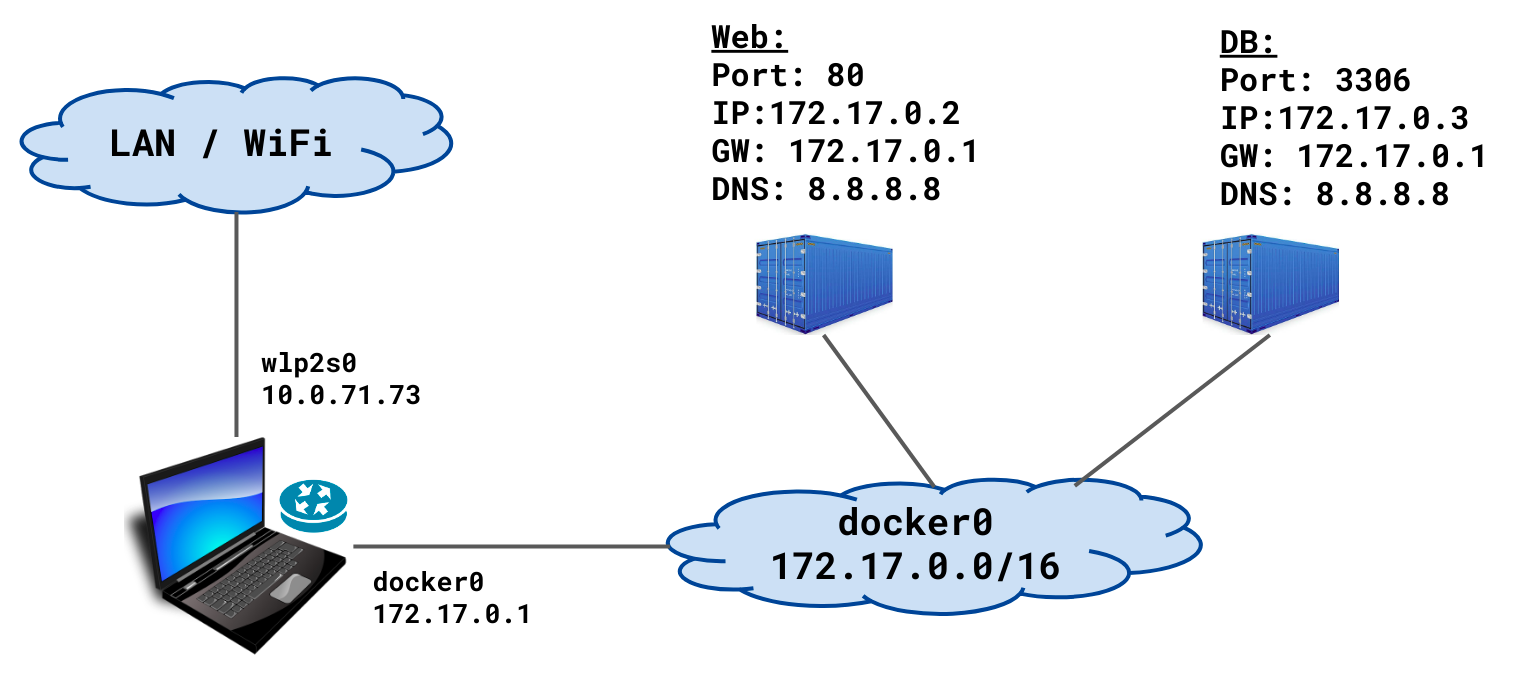
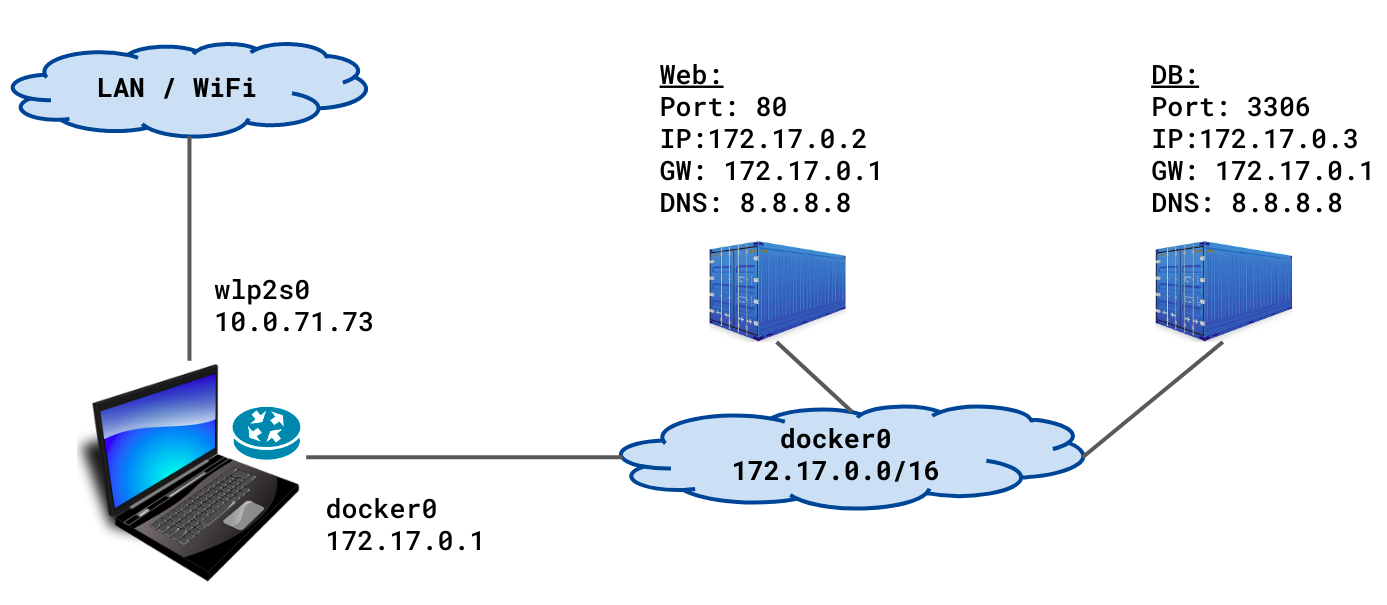
updated diagrams and some text

diff --git a/docs/docker-networking-deep-dive.md b/docs/docker-networking-deep-dive.md
@@ -32,9 +32,12 @@ ab382bcb8342        bridge              bridge              local
 c46f23496264        host                host                local
 2c77e24c2352        none                null                local
 ```
+Here is how the default bridge network looks like:
 
 | ![images/docker-bridge-network-1.png](images/docker-bridge-network-1.png) |
 | ------------------------------------------------------------------------- |
+
+Another way to look at the default bridge network:
 
 | ![images/docker-bridge-network-2.png](images/docker-bridge-network-2.png) |
 | ------------------------------------------------------------------------- |
